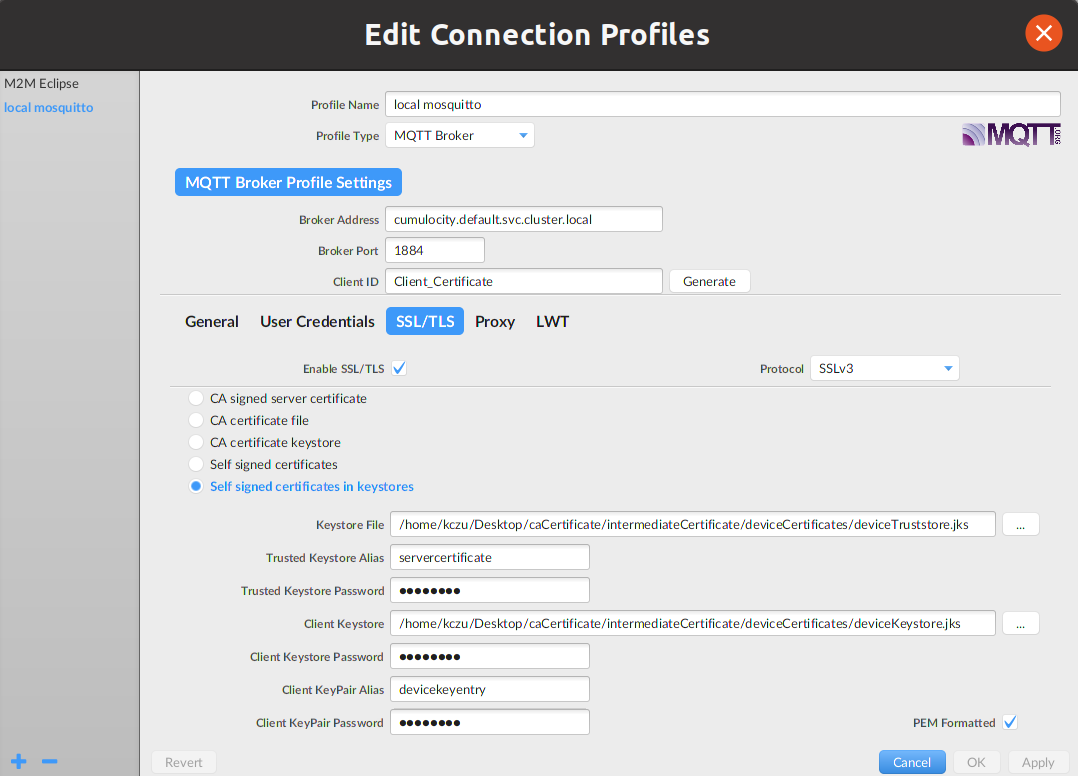
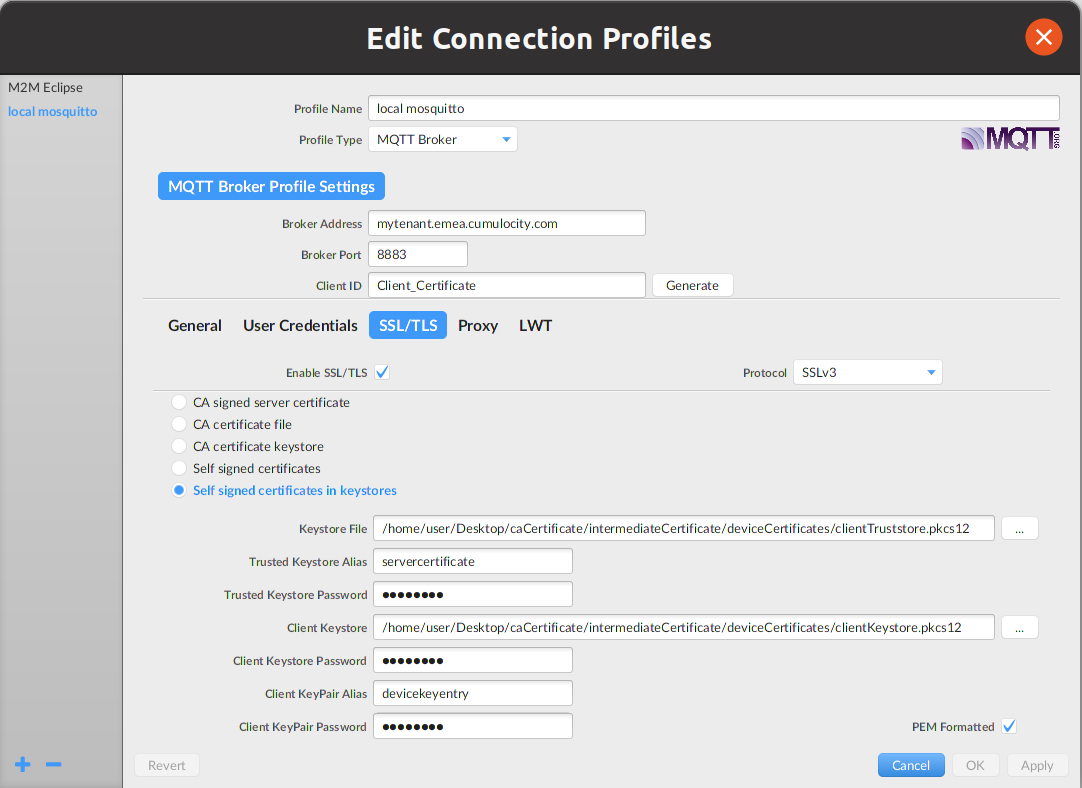
MTM-35717 refactor due to code review. Get rid of local examples, update the port number.

diff --git a/content/device-sdk/mqtt-bundle/device-certificates.md b/content/device-sdk/mqtt-bundle/device-certificates.md
@@ -73,13 +73,14 @@ After decryption with the issuer's public key, the signature should match the da
 Signing a certificate by another means that if the issuer's certificate is trusted then the signed certificate also can be trusted.
 For example if a platform trusts the customer certificate and that customer has 20 devices with individual certificates, then he does not have to upload each one of them.
 If these devices certificates are signed by the customer certificate, then the platform should trust them too.
-In this case, every device should send not only its own certificate, but the whole chain of certificates while connected.
-This makes sure that the device will always send at least one certificate that is trusted by the platform:
-Providing the chain of certificates will let the platform verify the signatures of every certificate in the chain to make sure that the device certificate is signed directly or indirectly by the trusted certificate.
+In this case, every device should send not only its own certificate, but the whole chain of certificates (so-called chain of trust) during the SSL handshake.
+The chain of certificates starts with the one belonging to the device, through all used intermediate certificates until it reaches the CA certificate trusted by the platform.
+Usually the chain of certificates does not have to contain the trusted CA certificate, so it can end with the certificate signed directly by the CA.
+However, in the Cumulocity IoT platform providing also the trusted CA certificate in the chain of certificates is required.
+Providing the chain of certificates let the platform verify the signatures of every certificate in the chain to make sure that the device certificate is signed directly or indirectly by the trusted certificate.
 The chain of the certificates can differ in length, so if the platform trusts certificate A and certificate B is signed by A, and certificate C is signed by B, then certificate C will also be trusted.
 However, there are a few things to keep in mind:
 
-* The device always has to send the whole chain of certificates, starting with the one belonging to the device, until it reaches the CA certificate trusted by the platform. Without it the platform would not be able to verify signatures of every certificate.
 * Every certificate which is used to sign another certificate has to contain the extension "CA:TRUE".
 * The lengths of the chain of certificates can be restricted by the certificate extension "pathlen". This extension limits the amount of other CA certificates that can be placed in the chain between the device certificate and the one with that extension. For example the valid chain of the certificates with minimal values of path length would look like: A (CA:TRUE, pathlen: 2) -> B (CA:TRUE, pathlen: 1) -> C (CA:TRUE, pathlen: 0) -> D (device with CA:FALSE).
 
@@ -105,7 +106,7 @@ To show how the authentication with X.509 certificates works, there is an exampl
 
 A server knows that the client is the owner of the certificate it sent, after the server has decrypted the encrypted copy of the message using the client's public key.
 The client knows that the server is the owner of the certificate it sent, if server uses the correct session key, because that means that the server decrypted it with its private key.
-In basic authentication with username and password, the password has to be sent to authenticate the user.
+In basic authentication with username and password, the password has to be sent over the network to authenticate the user.
 When certificates are used, the private key is never sent, which makes the use of the certificates much more secure than the basic authentication with username and password.
 
 There are 3 important terms related to X.509 certificates, which everyone should know who wants to start working with them:
@@ -127,19 +128,19 @@ To generate certificates we will use the OpenSSL toolkit. If you do not have it 
 
 #### Creating a self-signed CA certificate
 
-1. Create a directory for the root certificate and the signing configuration, for example: `mkdir /home/kczu/Desktop/caCertificate`
+1. Create a directory for the root certificate and the signing configuration, for example: `mkdir /home/user/Desktop/caCertificate`
 2. Go to the created directory and create configuration file for your CA certificate: `touch caConfig.cnf`
 3. Create a database file for keeping the history of certificates signed by the CA: `touch database.txt`
 4. Create a serial file with initial serial number, which will be used to identify signed certificates. After assigning this serial to the signed certificate, the value in this file will be automatically incremented: `echo 1000 > serial`
 5. Create subdirectories for signed certificates and the certificate revocation list: `mkdir deviceCertificates crl`
-6. Fulfill the configuration file. This is the example configuration, which can be used after changing the directory `dir` to your own:
+6. Fulfill the configuration file. This is the example configuration, which can be used for tests after changing the directory `dir` to your own. If you want to use it in the production environment then please consult it first with some security specialist:
 
 ```text
 [ ca ]
 default_ca = CA_default
 [ CA_default ]
 # Directory and file locations.
-dir               = /home/kczu/Desktop/caCertificate
+dir               = /home/user/Desktop/caCertificate
 certs             = $dir # directory where the CA certificate will be stored.
 crl_dir           = $dir/crl # directory where the certificate revocation list will be stored.
 new_certs_dir     = $dir/deviceCertificates # directory where certificates signed by CA certificate will be stored.
@@ -219,7 +220,8 @@ emailAddress            = optional
 The intermediate certificate is signed by the CA certificate, but will also be used to sign device certificates.
 This step is optional.
 If you are fine with signing all the device certificates with one common CA certificate, then you can skip this step.
-However, if you need some certificates between CA certificate and the device certificate then it is the way to go:
+However, if you need some certificates between CA certificate and the device certificate then it is the way to go.
+Keep in mind that in the Cumulocity IoT cloud maximum length of the chain of certificates is currently restricted to 2, so you cannot use any intermediate certificate between your CA certificate and device certificate there:
 
 1. Create a new directory for intermediate certificates inside the caCertificate path: `mkdir intermediateCertificate`
 2. Go to this directory and create a configuration file for your intermediate certificate: `touch intermediateConfig.cnf`
@@ -265,11 +267,11 @@ Go into your caCertificate directory.
 1. Generate keystore as described in [Generating and signing certificates](#generating-and-signing-certificates) if you didn't do it yet.
 2. Get server certificate in pem format:
     ```shell
-    openssl s_client -showcerts -connect <cumulocity url>:<mqtt mutual ssl port (currently 1884, but that can be changed in the future)> | openssl x509 -outform PEM > serverCertificate.pem
+    openssl s_client -showcerts -connect <cumulocity url>:<mqtt mutual ssl port (currently 8883, but that can be changed in the future)> | openssl x509 -outform PEM > serverCertificate.pem
     ```
-    For example the full line to execute with filled url and port in my local environment looks like:
+    For example the full line to execute with filled url and port for my test tenant looks like:
     ```shell
-    openssl s_client -showcerts -connect cumulocity.default.svc.cluster.local:1884 | openssl x509 -outform PEM > serverCertificate.pem
+    openssl s_client -showcerts -connect mytenant.emea.cumulocity.com:8883 | openssl x509 -outform PEM > serverCertificate.pem
     ```
 
 3. Create new truststore with the server certificate:
@@ -282,7 +284,7 @@ Go into your caCertificate directory.
 
     * Via UI:
 
-        1. You have to open the device danagement application, then navigate to the Management tab and select trusted certificates.
+        1. You have to open the device management application, then navigate to the Management tab and select trusted certificates.
         2. Drop your caCert.pem (or intermediateCert.pem).
         3. Check the auto-registration field.
         4. Click on the certificate status to set it to "Enabled".
@@ -356,8 +358,7 @@ Then the instance of the MQTT client can be created with a single line:
 
     MqttClient mqttClient = new MqttClient(BROKER_URL, "d:" + CLIENT_ID, new MemoryPersistence());
 
-The BROKER_URL should contain protocol, url and port, which the client will connect to.
-For example, to connect the client to my local instance, I would fill it with the value: "ssl://cumulocity.default.svc.cluster.local:1884".
+The BROKER_URL should contain protocol, url and port, which the client will connect to, for example: `ssl://mytenant.emea.cumulocity.com:8883`.
 The CLIENT_ID value has to match the value of the Common Name of the device certificate that will be used.
 The "d:" prefix is used in Cumulocity IoT for device connections and it should not be removed or changed.
 Now the only thing that needs to be configured to establish the SSL connection is to fill paths in the code fragment:
